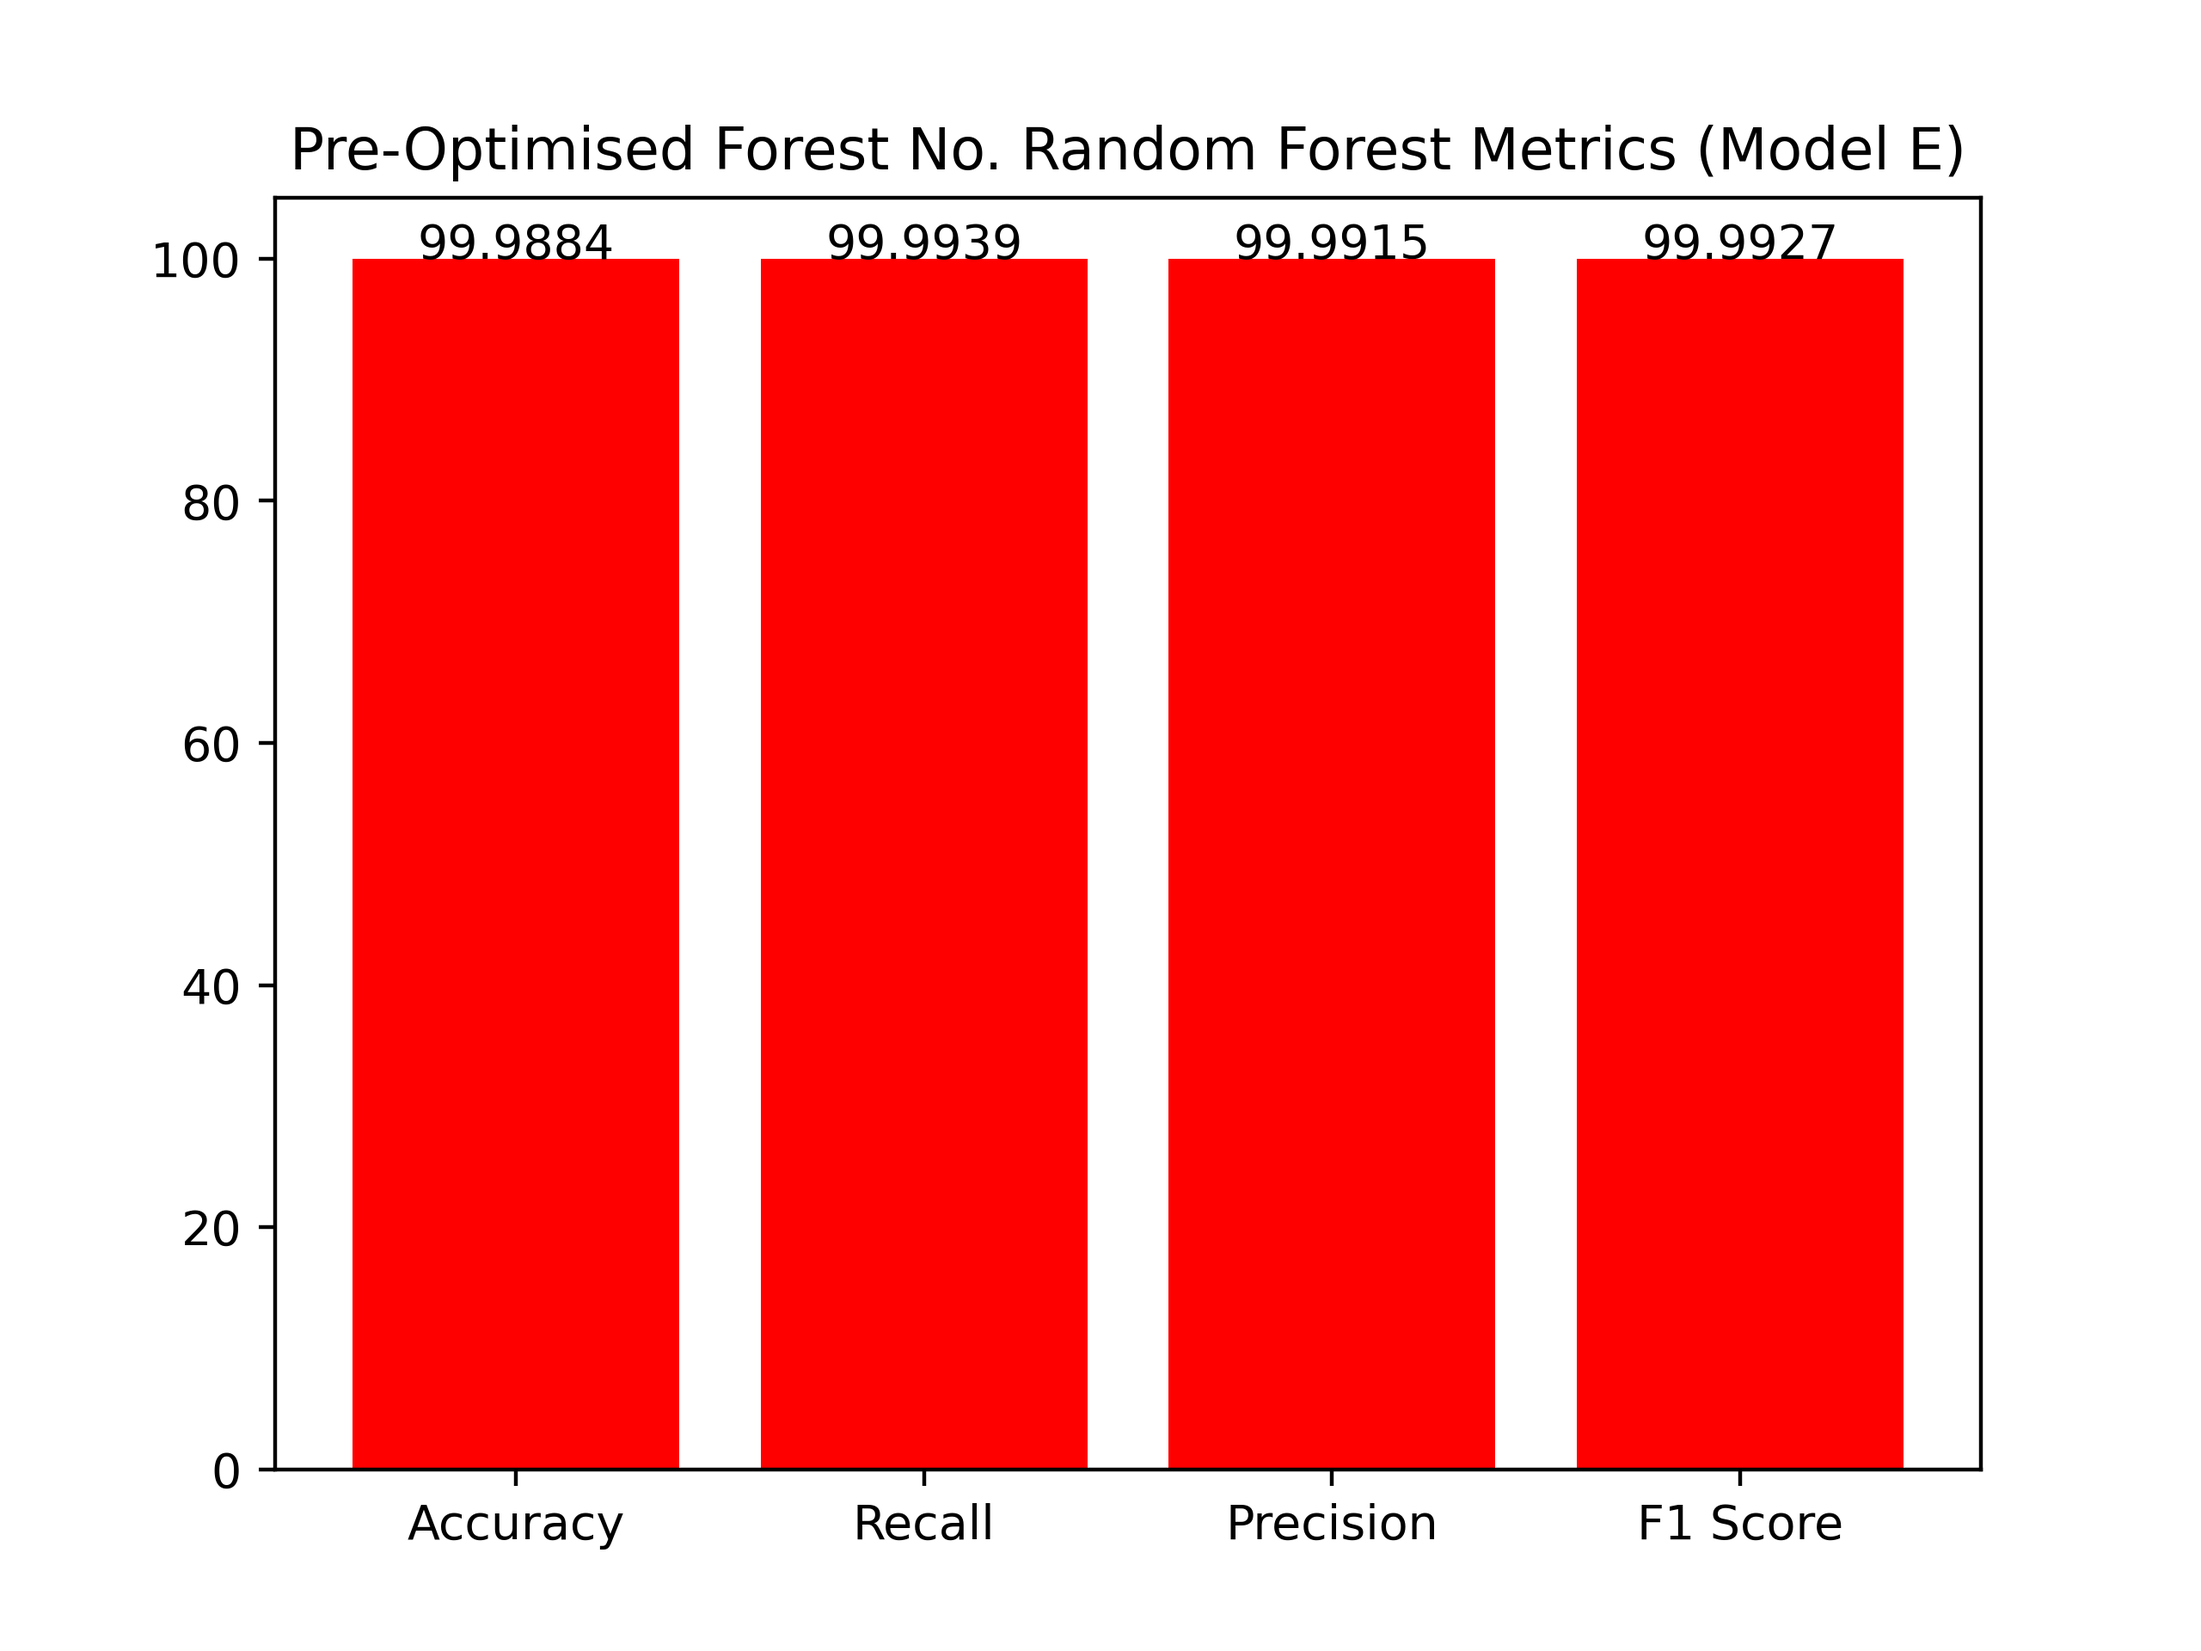
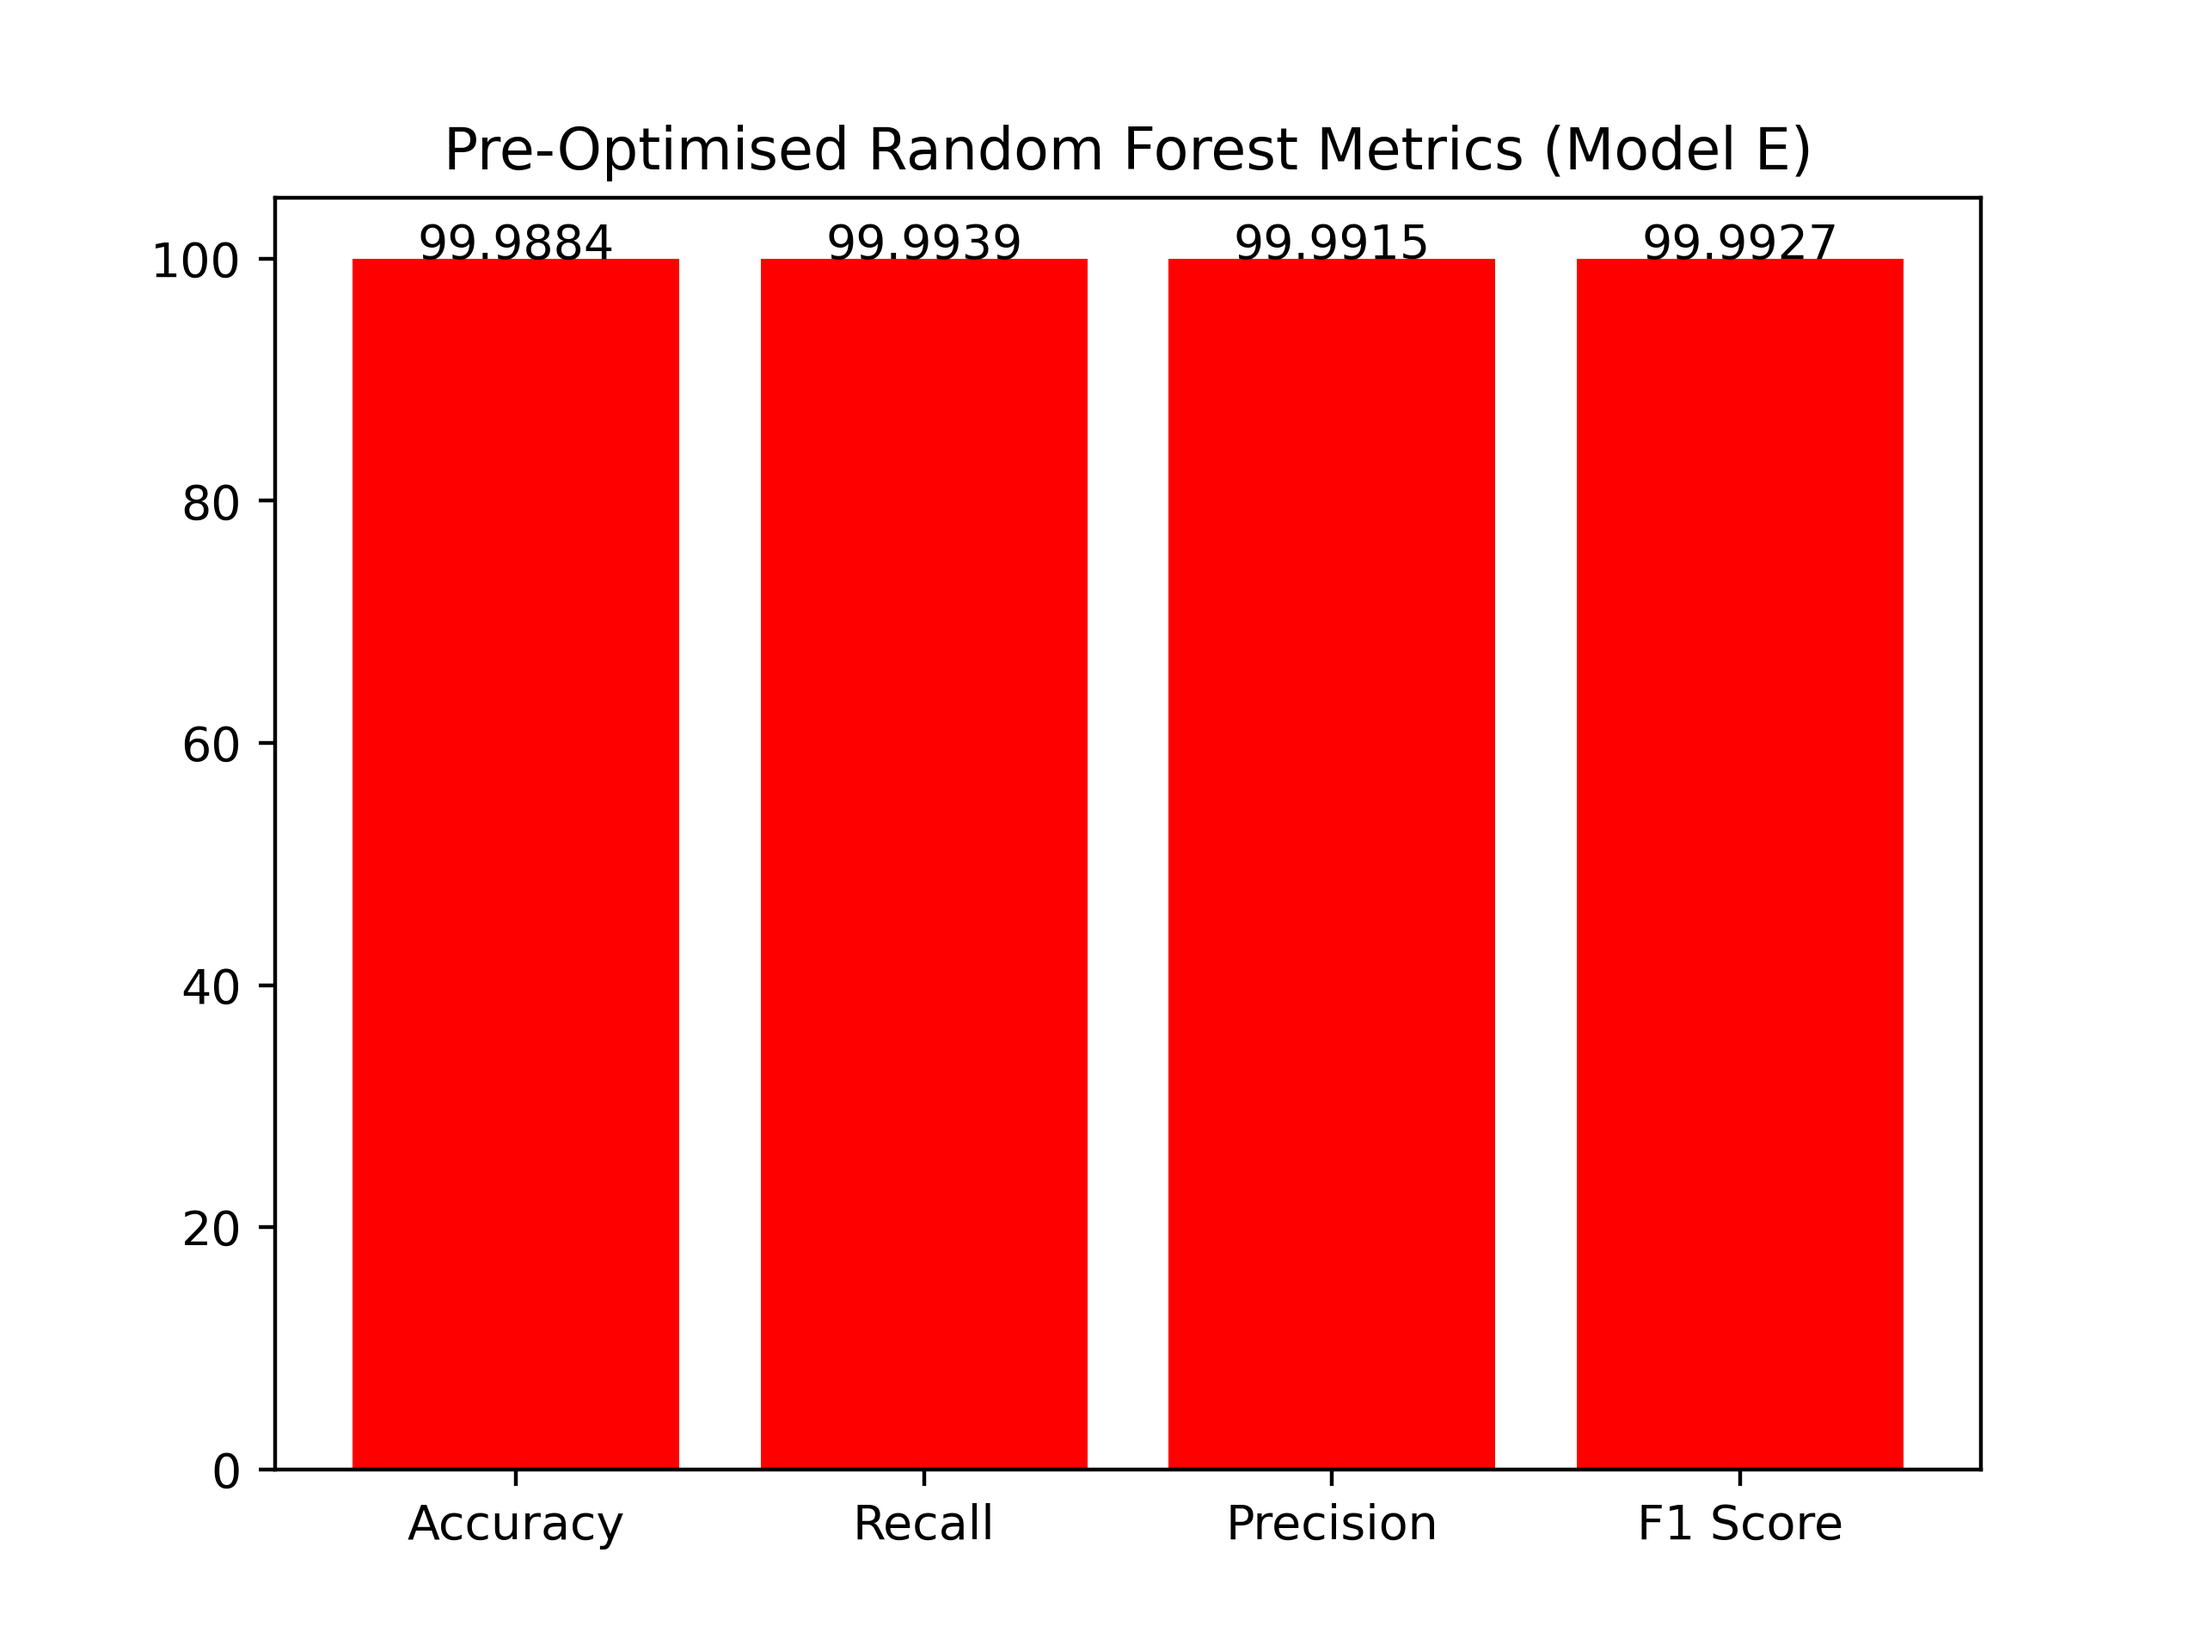
fix rf graph title again

Changed region(s): [[0.125, 0.0625, 0.875, 0.125]]

diff --git a/Metrics/Graphs/classifierGraphs.py b/Metrics/Graphs/classifierGraphs.py
@@ -104,7 +104,7 @@ pre_optimised_values_rf = list(pre_optimised_rf_data.values())
 x_preop_rf = list(pre_optimised_rf_data.keys())
 y_preop_rf = [round (value * 100, 4) for value in pre_optimised_values_rf]
 
-create_simple_bar_graph(x=x_preop_rf, y=y_preop_rf, value_labels=True, colour="Red", title="Pre-Optimised Forest No. Random Forest Metrics (Model E)", save_path="Metrics/Graphs/pngs/preOptimisedRfMetrics.png", dpi=400)
+create_simple_bar_graph(x=x_preop_rf, y=y_preop_rf, value_labels=True, colour="Red", title="Pre-Optimised Random Forest Metrics (Model E)", save_path="Metrics/Graphs/pngs/preOptimisedRfMetrics.png", dpi=400)
 
 # DNN
 
